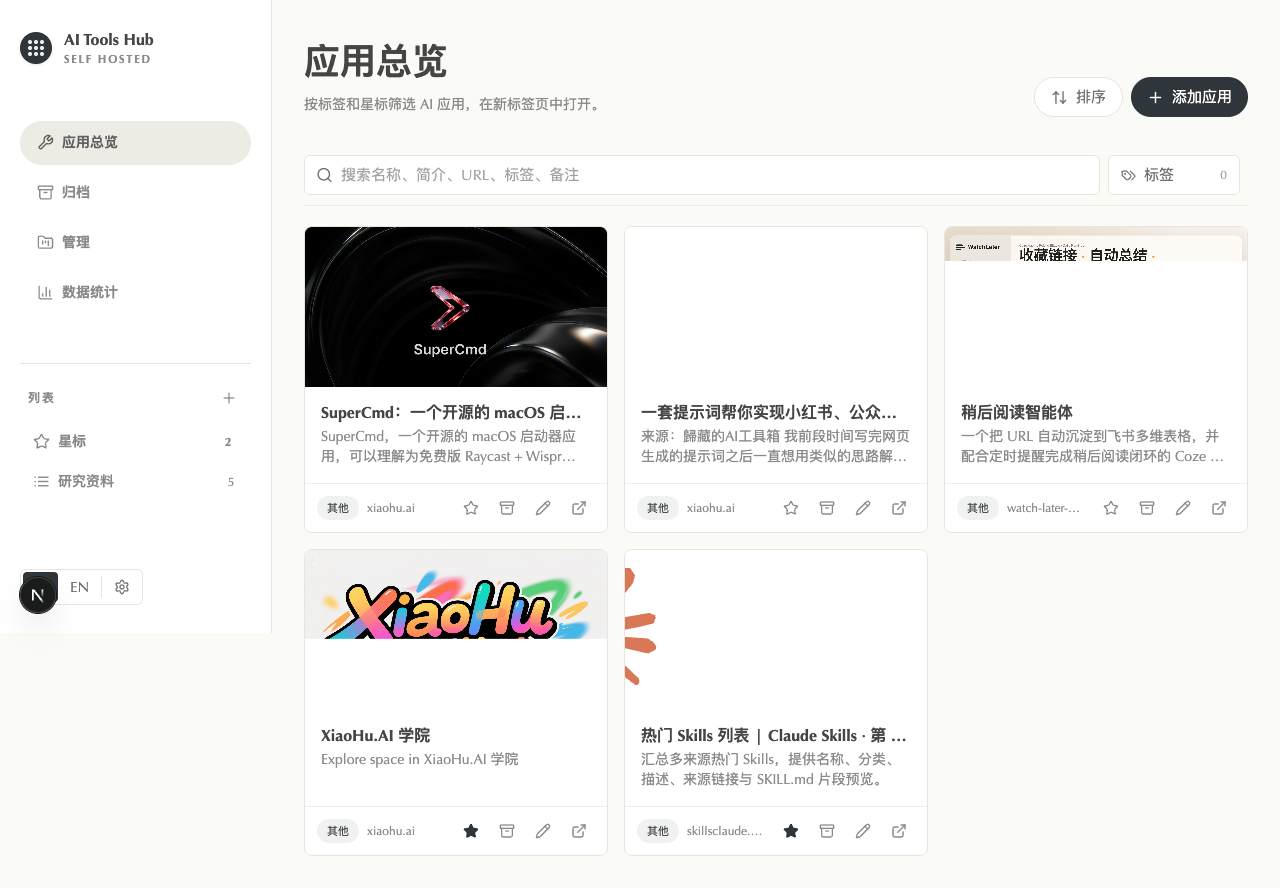
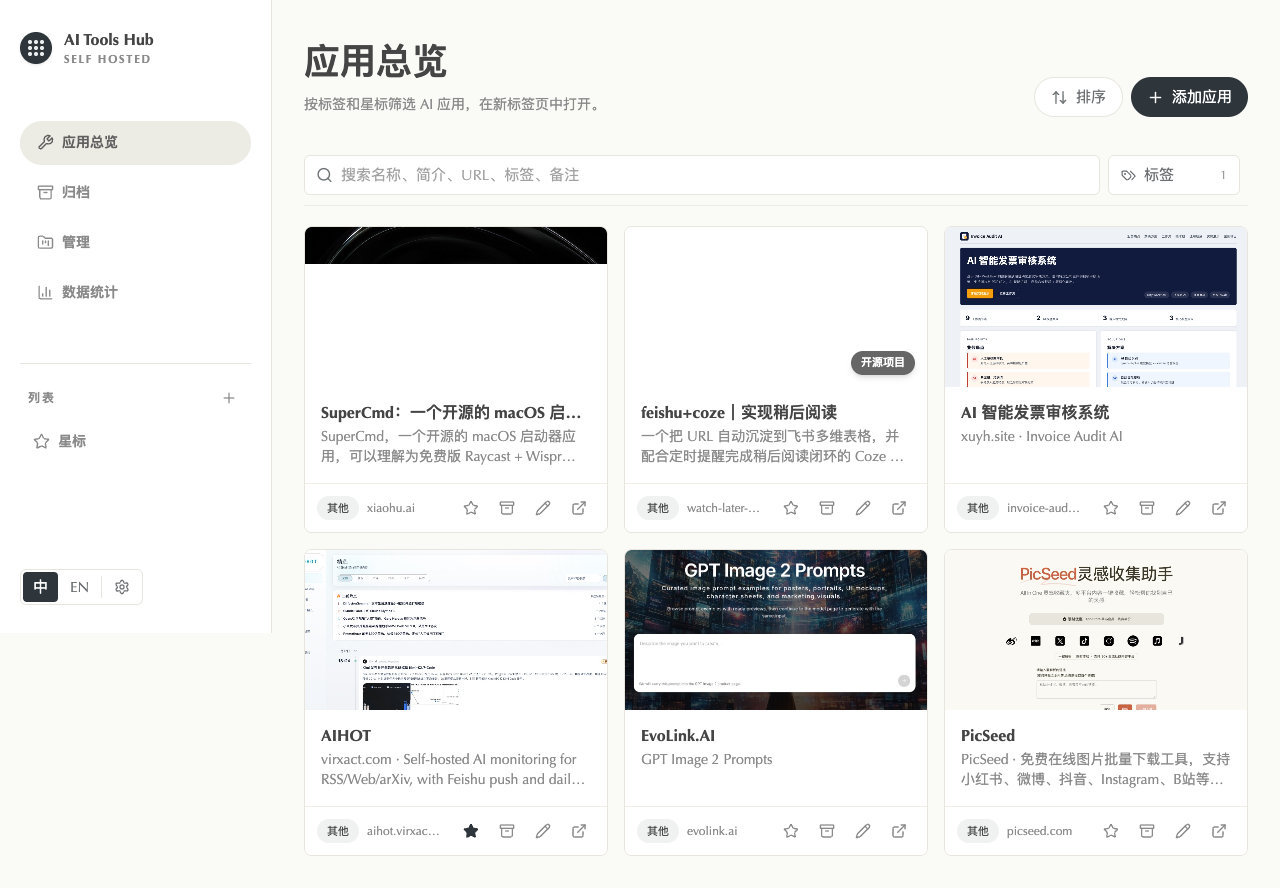
docs: 更新页面截图，新增标签管理截图

diff --git a/README.md b/README.md
@@ -59,9 +59,9 @@
 
 ## Screenshots
 
-| Overview | Stats | Manage |
-|----------|-------|--------|
-| ![Overview](docs/screenshots/overview.png) | ![Stats](docs/screenshots/stats.png) | ![Manage](docs/screenshots/manage.png) |
+| Overview | Stats | Manage | Tags |
+|----------|-------|--------|------|
+| ![Overview](docs/screenshots/overview.png) | ![Stats](docs/screenshots/stats.png) | ![Manage](docs/screenshots/manage.png) | ![Tags](docs/screenshots/tags.png) |
 
 ---
 
